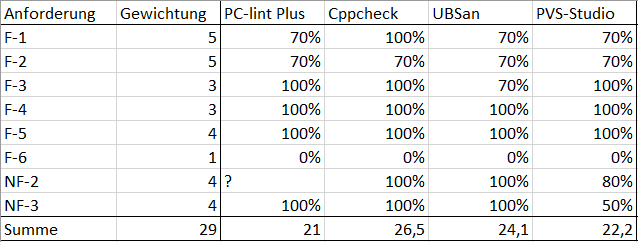
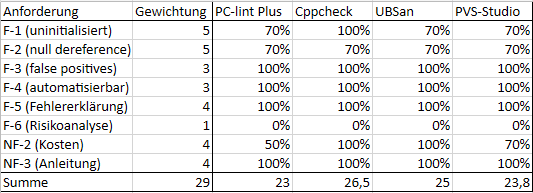
toolfindung überarbeitet

diff --git a/Tex/tex/Toolfindung/Toolfindung.tex b/Tex/tex/Toolfindung/Toolfindung.tex
@@ -3,36 +3,41 @@
 
 In diesem Kapitel werden vier Tools untersucht, welche \gls{ub} auffinden sollen:
 \begin{itemize}
-    \item PC-lint plus
-    \item Cppcheck
-    \item \gls{ubsan} (wird von GCC und Clang++ verwendet)
-    \item PVS-Studio
+    \item PC-lint Plus \cite{misc:pclintplus}
+    \item Cppcheck \cite{misc:cppcheck}
+    \item \gls{ubsan} (wird von GCC und Clang++ verwendet) \cite{misc:ubsan}
+    \item PVS-Studio \cite{misc:pvsstudio}
 \end{itemize}
 Die Tools werden dabei anhand einer Bewertungsmatrix mit den Anforderungen F-1 bis F-6, NF-2 und NF-3 bewertet. Die Anforderungen sind mit Zahlen von eins bis fünf gewichtet, wobei 
 eine höhere Zahl für eine höhere Relevanz steht. Bei F-1 und F-2 wird das Erfüllen der Anforderung in Form einer Warnung mit 70\% gewertet. 100\% werden vergeben, wenn das Tool einen 
 Error ausgibt.
 \begin{figure}[htpb]
     \centering
-    \includegraphics[width=0.7\textwidth]{toolfindung}
+    \includegraphics[width=0.8\textwidth]{toolfindung}
     \caption{Bewertungsmatrix}
     \label{img:toolfindung}
 \end{figure}
 
 Alle untersuchten Tools geben für F-1 und F-2 eine Warnung aus. Eine Ausnahme bildet dabei Cppcheck, welches für F-1 einen Error ausgibt. \newline
-False positives wurden bei durchgeführten Tests von keinem Tool erkannt, allerdings sind mehrere Berichte über korrekten Code, welcher von \gls{ubsan} als inkorrekt markeirt wurde, 
-zu finden. \newline
+False positives wurden bei durchgeführten Tests von keinem Tool erkannt.
 Da jedes Tool von der Kommandozeile aus bedienbar ist, sind alle Tools automatisierbar. Dies ermöglicht auch eine Integration in Projekte jeder Art. Für PVS-Studio existiert jedoch 
-zusätzlich eine Extension für Visual Studio. \newline
+zusätzlich eine Extension für Visual Studio \cite{misc:pvsplugin}. \newline
 Eine Risikoanalyse wird von keinem Tool zur Verfügung gestellt. \newline
-Im Gegensatz dazu verfügt jedes Tool über eine Dokumentation. Die Online-Dokumentation von PVS-Studio referenziert aber nicht mehr vorhandene Seiten. Zusätzlich funktioniert die 
-integrierte Suchfunktion nicht mit einzelnen Wörtern. \newline
-Sowohl Cppcheck als auch \gls{ubsan} sind kostenfrei verfügbar. Für ein Entwicklerteam mit circa 20 Personen belaufen sich die Kosten für PVS-Studio auf 20000 €.
+Im Gegensatz dazu verfügt jedes Tool über eine Dokumentation. Beim Aufruf am 02.02.2021 referenzierte die Dokumentation von PVS-Studio (\cite{misc:pvsdoku}) nicht mehr vorhandene Seiten. Zusätzlich 
+funktionierte die integrierte Suchfunktion nicht mit einzelnen Wörtern. Dies ist aktuell (letzter Aufruf 16.06.2021) nicht mehr der Fall.\newline
+Sowohl Cppcheck als auch \gls{ubsan} sind kostenfrei verfügbar. \newline 
+PVS-Studio kostet im ersten Jahr, für ein Entwicklerteam mit 10-30 Entwicklern, 21.000€. Für jedes folgende Jahr belaufen sich die Kosten auf 80\% des Preises (16.800€).\newline 
+Die zuständigen Stelle von PC-Lint Plus hat bezüglich auf eine Preisanfrage, zum aktuellen Zeitpunkt, noch keine Rückmeldung gegeben. Aus diesem Grund wird NF-2 bei diesem Tool 
+vorläufig mit 50\% bewertet.
 
-\section{Bewertung}
-\label{sec:bewertung}
+\section{Auswahl}
+\label{sec:auswahl}
 
-Cppcheck erreicht in der Bewertungsmatrix (\ref{img:toolfindung}) die höchste Punktzahl und ist somit Sieger der Bewertung und daraus resultierend die Toolempfehlung. 
-Jedoch zeigen die anderen Tools keine übermäßigen Abweichungen auf und können je nach Situation auch in Betracht gezogen werden. \newline
+Cppcheck erreicht in der Bewertungsmatrix (Abbildung: \ref{img:toolfindung}) die höchste Punktzahl und ist somit Sieger der Bewertung und daraus resultierend die Toolempfehlung. 
+Jedoch zeigen die anderen Tools keine übermäßigen Abweichungen auf und können auch in Betracht gezogen werden, falls beispielsweise eine Integration in Visual Studio gewünscht ist 
+(PVS-Studio). \newline
 Zur optimalen Toolfindung empfiehlt sich somit das Testen der einzelnen Tools in einem größeren Projektumfeld. Die kostenpflichtigen Tools bieten für diesen Zweck kostenlose 
 Testlizenzen an. Attraktiv ist hierbei PVS-Studio, da dieses mit einer Extension in Visual Studio integriert werden kann. Das Tool fällt allerdings durch die vergleichsweise 
-schlechte Dokumentation auf. Zusätzlich ist PVS-Studio allgemein weniger bekannt und die Suche nach Online-Hilfe ist somit schwieriger.
+schlechte Dokumentation auf. Zusätzlich ist PVS-Studio allgemein weniger bekannt und die Suche nach Online-Hilfe ist somit schwieriger. \newline
+Zusätzlich können die kostenfreien Tools zusätzlich zu dem schlussendlich ausgewählten Tool eingesetzt werden. Dies ermöglicht eine höhere Fehlerabdeckung, garantiert allerdings nicht, 
+dass neue/mehr Fehler erkannt werden. Da das Einsetzen der kostenlosen Tools nur Zeit kostet, ist der Einsatz dieser immer eine Überlegung wert.

diff --git a/Tex/tex/UndefinedBehavior/UndefinedBehavior.tex b/Tex/tex/UndefinedBehavior/UndefinedBehavior.tex
@@ -39,7 +39,7 @@ Einige weitere Ursachen von \gls{ub} sind:
 
 \gls{ub} ermöglicht dem \gls{compiler} Code-Optimierungen durchzuführen, indem der \gls{compiler} davon ausgeht, dass das Programm nur definierte Operationen durchführt. \cite[S.633]{book:taming-ub}
 
-Das Verwenden von \gls{ub} resultiert in einer Optimierung der Performance. Für diese wird jedoch die Vorhersehbarkeit und Sicherheit des Codes eingeschränkt. \cite[S.633]{book:taming-ub} \\
+Das Verwenden von \gls{ub} resultiert in einer Optimierung der Performance der Code-Kompilierung. Für diese wird jedoch die Vorhersehbarkeit und Sicherheit des Codes eingeschränkt. \cite[S.633]{book:taming-ub} \\
 Es wird den Entwicklern überlassen das Auftreten von \gls{ub} zu verhindern oder zu minimieren.
 
 Andere Programmiersprachen, wie Java, sollen in ihrer \gls{ir} das Auftreten von \gls{ub} verringern oder verhindern. \cite[S.633]{book:taming-ub}
